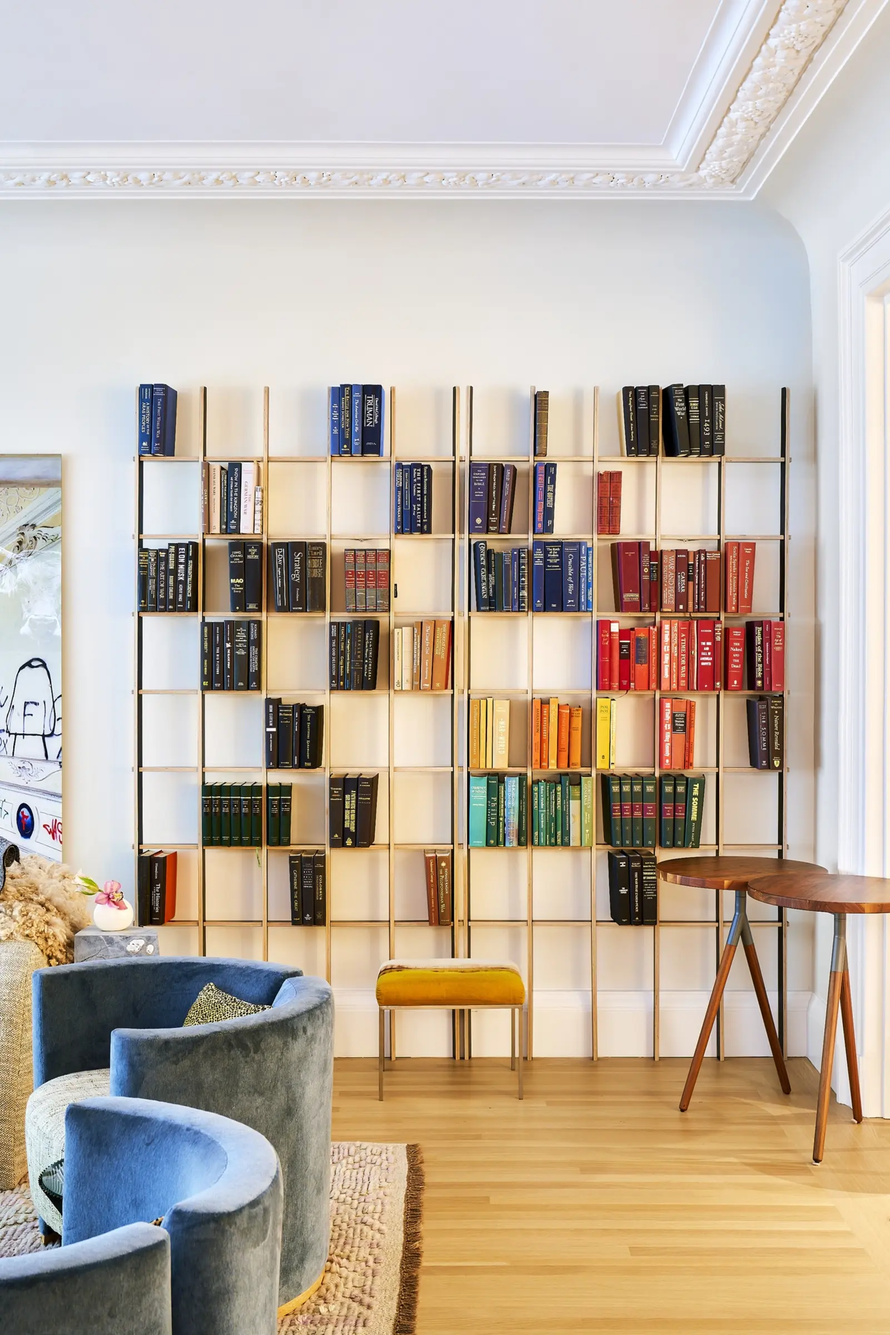
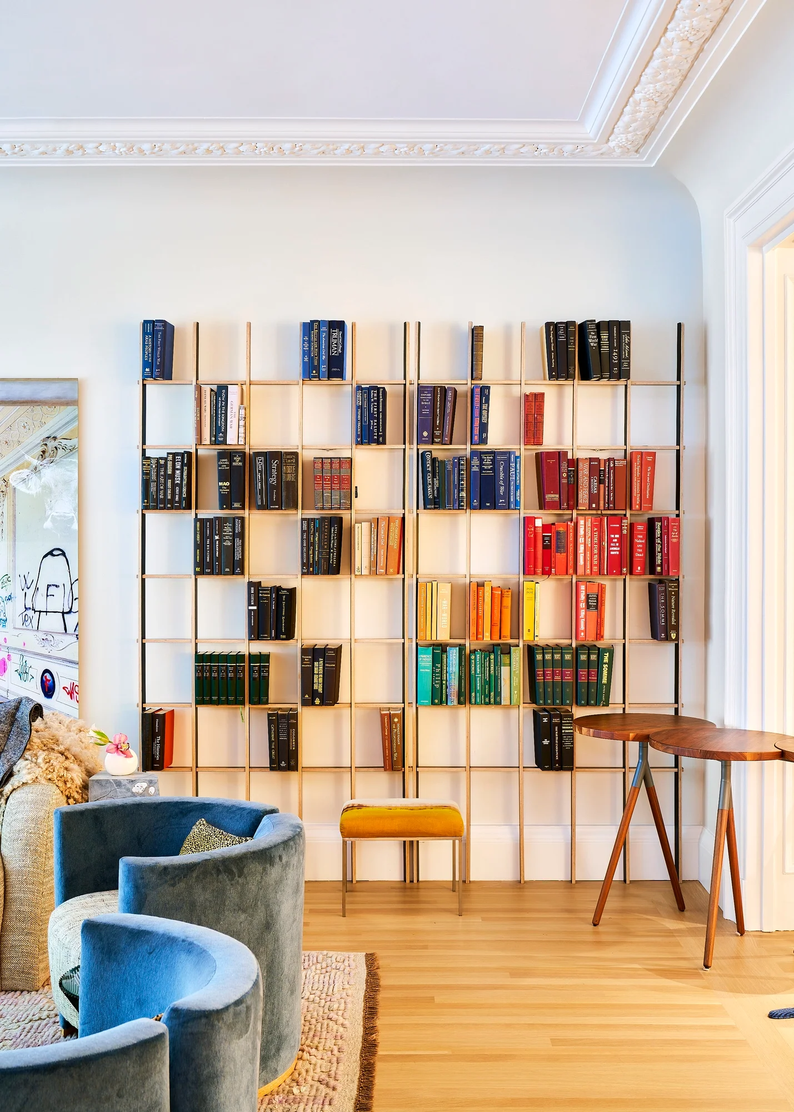
feat(home): standardize selected project cards to 5:7
Crop Hudson Valley and UES home page images to match Vermont's
original 5:7 ratio so the full Vermont photo shows uncropped.

diff --git a/src/components/Main.tsx b/src/components/Main.tsx
@@ -32,13 +32,13 @@ export default function Main() {
                     <div className="flex flex-col md:flex-row justify-between">
                         <ProjectCard 
                         title="Hudson Valley"
-                        imgSrc="/hudson-valley/photo1.webp"
+                        imgSrc="/hudson-valley/photo1_resized_for_main_page.webp"
                         pageId="projects/hudson-valley"
                         />
 
                         <ProjectCard 
                         title="Vermont"
-                        imgSrc="/vermont/photo-11_resized_for_main_page.webp"
+                        imgSrc="/vermont/photo-11.webp"
                         pageId="projects/vermont"
                         />
 
